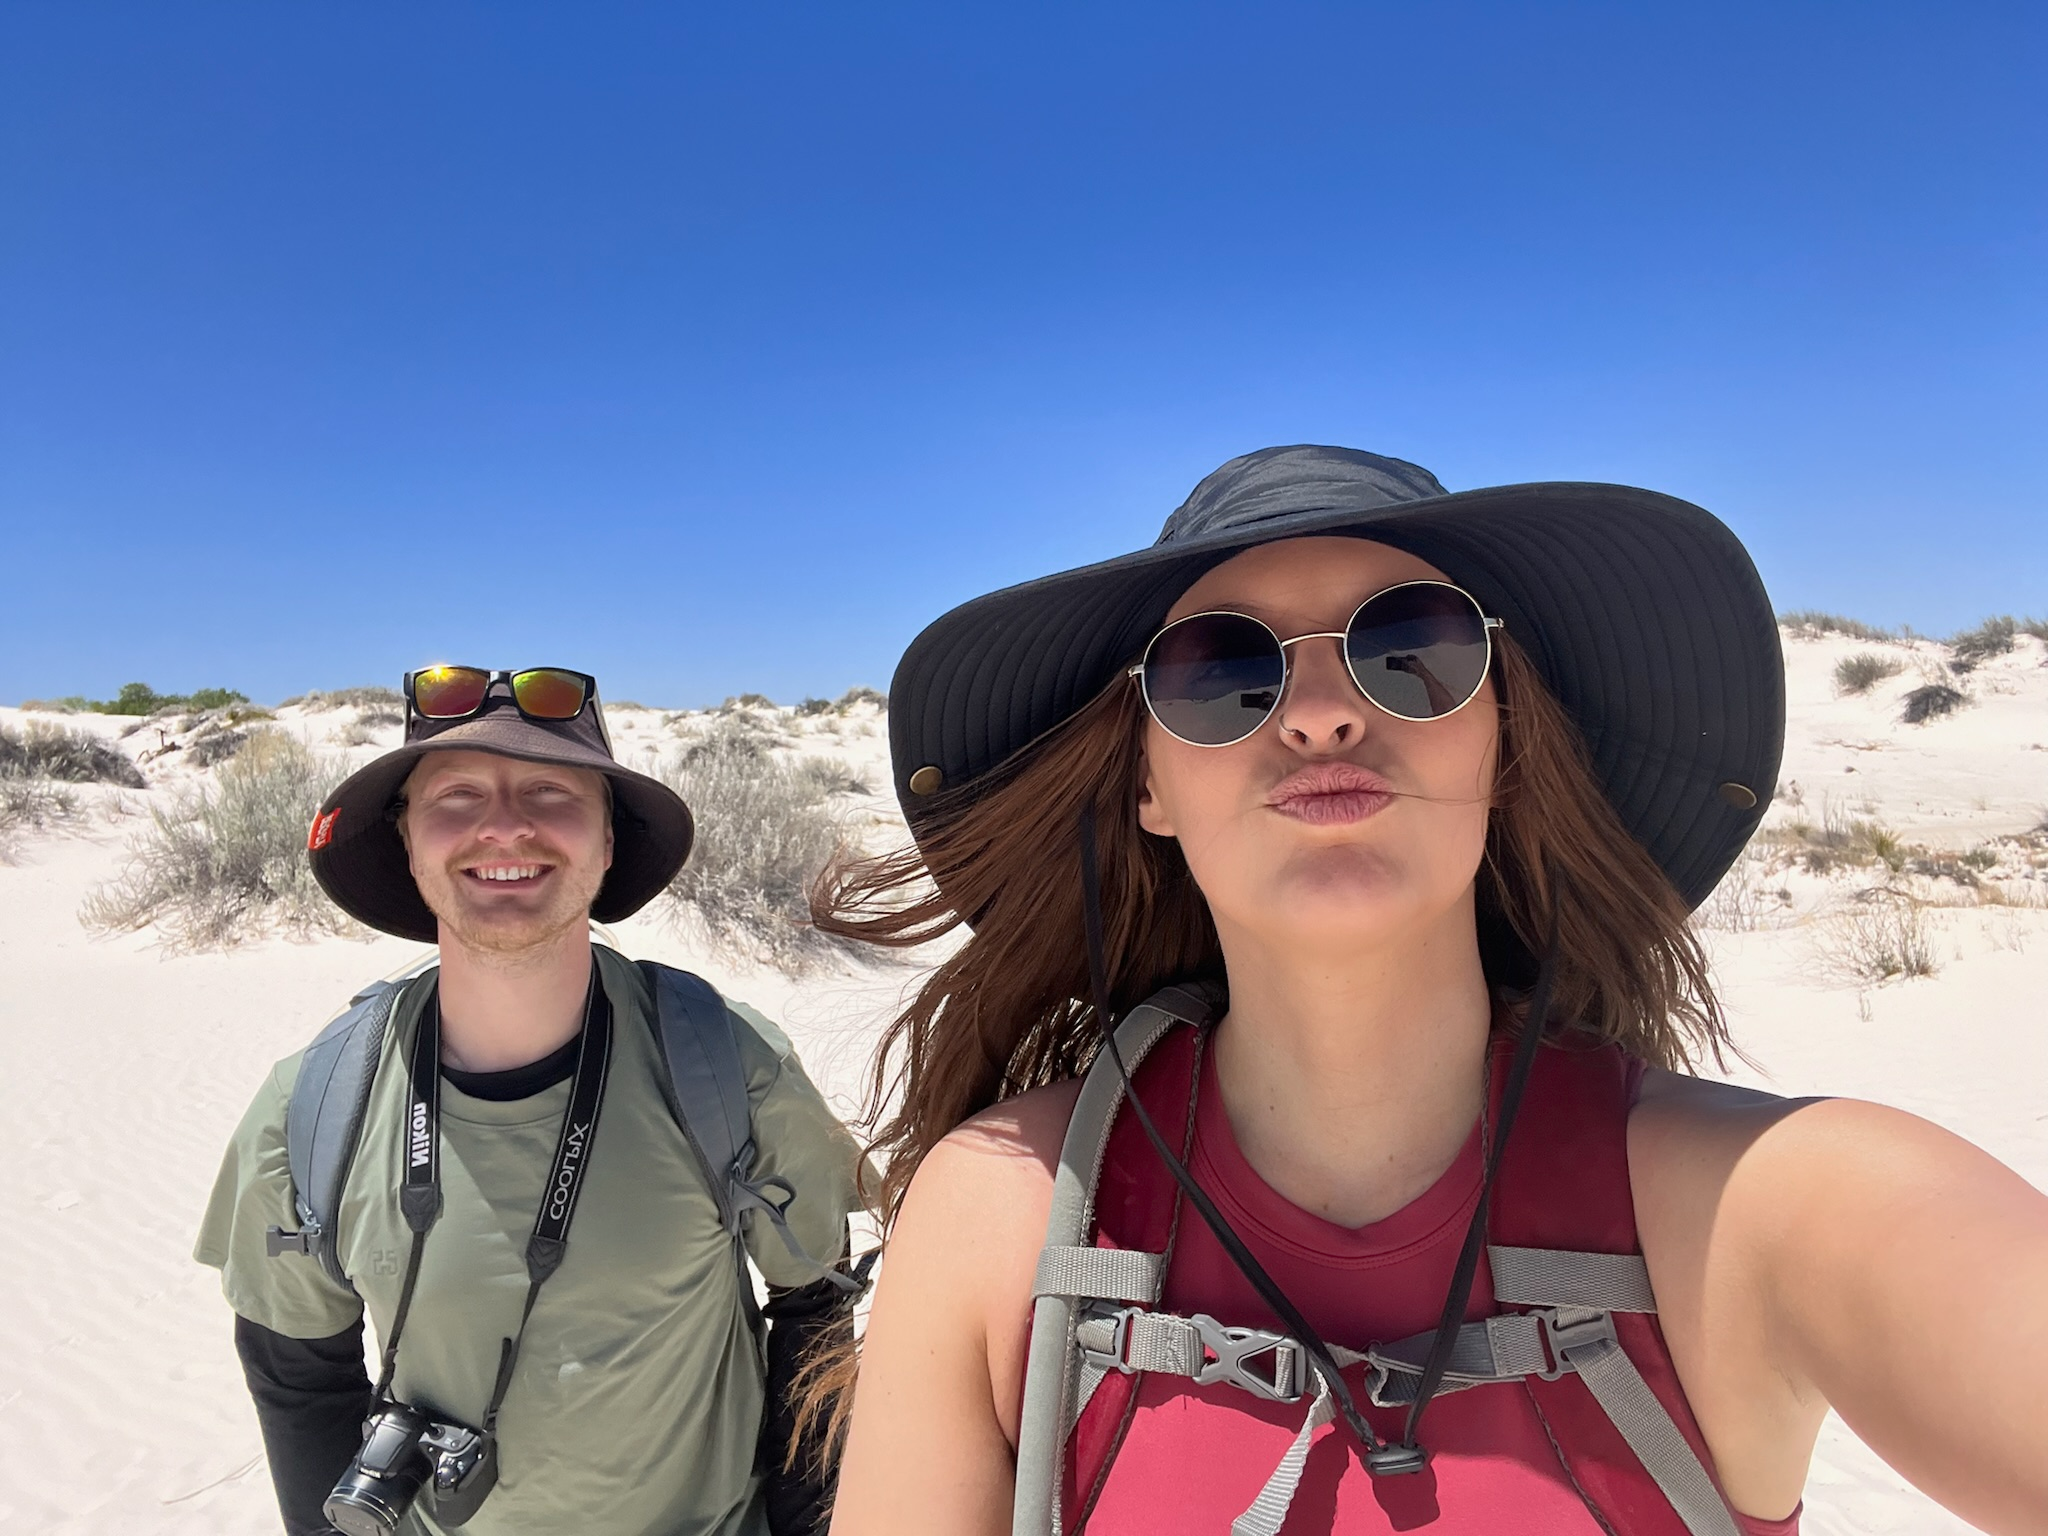
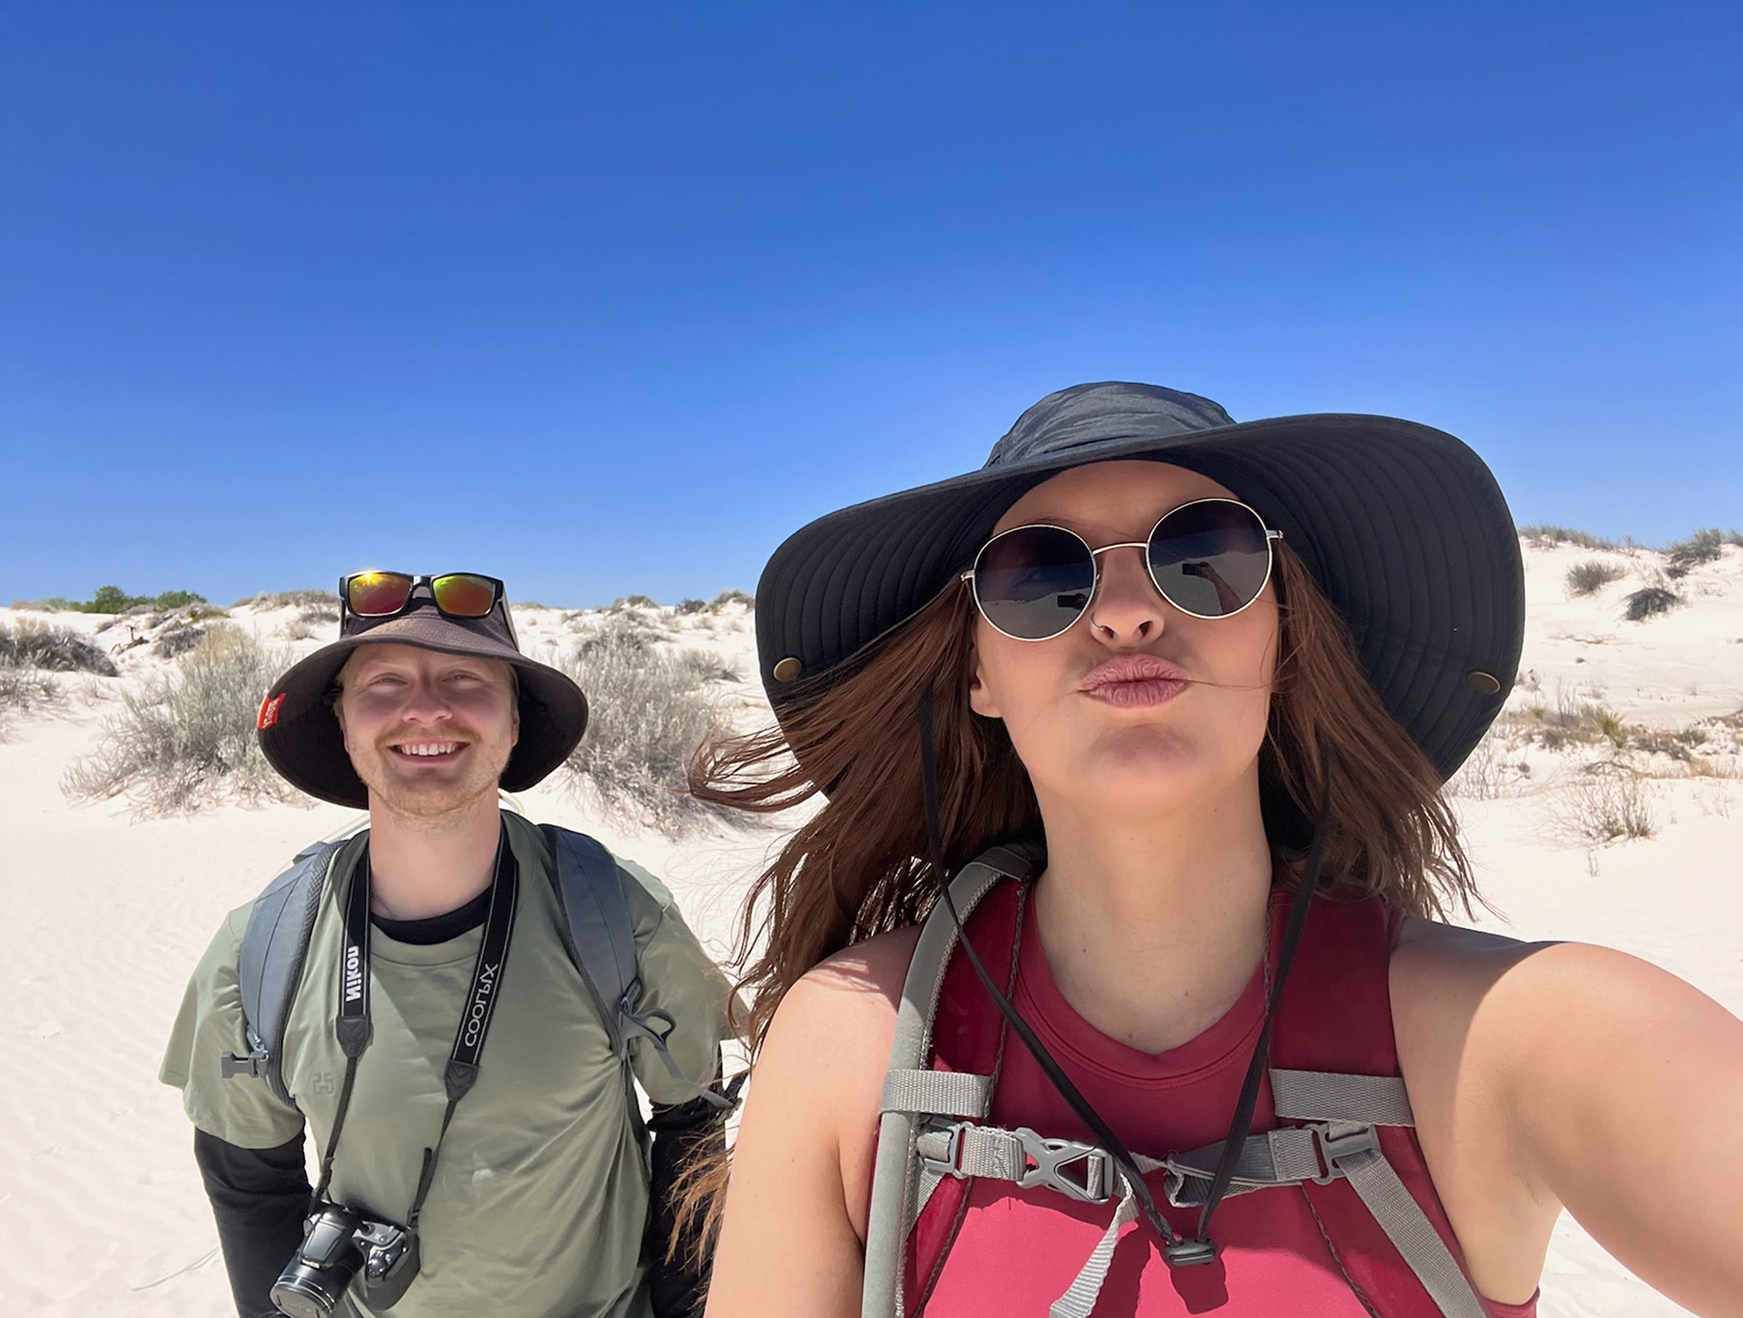
updated the third image grouping

diff --git a/src/routes/home/+page.svelte b/src/routes/home/+page.svelte
@@ -310,14 +310,14 @@ class:translate-y-0={rsvp}
                         <p class="w-4/5 mx-auto">Next came Capitol Reef, a park that surprised us with its quiet beauty and wide open spaces—another hidden gem we got to share together.</p>
                     </div>
 
-                    <div class="grid grid-cols-2 rounded-tr-2xl rounded-bl-2xl mb-4 gap-1 border border-black/20 md:w-5/12 h-[400px] lg:h-[500px]">
+                    <div class="grid grid-cols-2 rounded-tr-2xl rounded-bl-2xl mb-4 gap-1 border border-black/20 md:w-5/12">
                         <div class="grid gap-1">
-                            <img src="storyrmnp2.png" alt="Drew and Emma at Arches National Park" class="object-cover w-full h-full"/>
-                            <img src="storywsnp.png" alt="Drew and Emma at Arches National Park" class="object-cover w-full h-full rounded-bl-2xl"/>
+                            <img src="storycbcnp.png" alt="Drew and Emma at white sands" class="object-cover w-full"/>
+                            <img src="storyrmnp2.png" alt="Drew and Emma selfie at the rockies" class="object-cover w-full rounded-bl-2xl"/>
                         </div>
                         <div class="grid gap-1">
-                            <img src="storycbcnp.png" alt="Drew and Emma at Arches National Park" class="object-cover w-full rounded-tr-2xl h-full"/>
-                            <img src="storygmnp.png" alt="Drew and Emma at Arches National Park" class="object-cover w-full h-full"/>
+                            <img src="storygmnp.png" alt="Drew and Emma at Capitol Reef" class="object-cover w-full rounded-tr-2xl"/>
+                            <img src="storywsnp.png" alt="Drew and Emma in the caverns" class="object-cover w-full"/>
                         </div>
                     </div>
                     <!-- <div bind:this={sectionRef1}></div> -->
